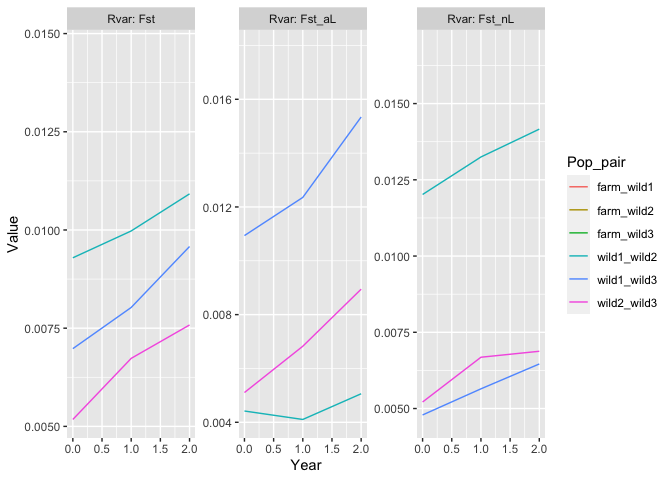
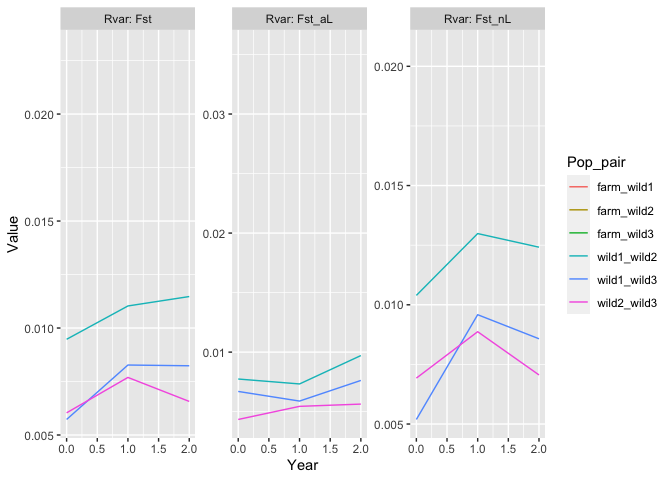
testing out parameter loading

diff --git a/README.md b/README.md
@@ -47,14 +47,15 @@ See the example below for the workflow needed to use this package
 
 ## Example
 
-This example shows you the sequence of steps needed to run
-`shellfishrisks`.
+This example shows you the sequence of steps needed to install requirede
+Python packages and run `shellfishrisks`.
 
 ``` r
-set.seed(456)
+set.seed(42)
 # For various reasons, if think you need to install Python libraries, you need to run this BEFORE calling library(shellfishrisks)
 
 shellfishrisks::install_pypkgs() # installs any missing and required Python packages
+#> shellfishrisks is using Conda environment 'r-reticulate'
 
 library(shellfishrisks) # now load shellfishrisks after installing required python packages
 # If you get an error about a missing Python package, restart R, and then run shellfishrisks::install_pypgks() BEFORE running library(shellfishrisks)
@@ -113,41 +114,41 @@ str(results)
 #>   ..$ Allele         : int [1:500] 0 1 0 1 0 1 0 1 0 1 ...
 #>   ..$ Adaptive       : chr [1:500] "True" "True" "True" "True" ...
 #>   ..$ Adv            : chr [1:500] "True" "False" "True" "False" ...
-#>   ..$ AlleleFrequency: num [1:500] 0.838 0.162 0.874 0.126 0.897 ...
-#>  $ bstock_report   :'data.frame':    10 obs. of  4 variables:
-#>   ..$ coreid            : int [1:10] 1 1 1 1 1 1 1 1 1 1
-#>   ..$ Rep               : int [1:10] 0 0 0 0 0 0 0 0 0 0
-#>   ..$ Year              : int [1:10] 1 1 1 1 1 1 1 1 1 1
-#>   ..$ IndID_survivedAgeX: num [1:10] 94 40 12 90 57 4 5 96 75 37
+#>   ..$ AlleleFrequency: num [1:500] 0.9048 0.0952 0.8563 0.1437 0.9545 ...
+#>  $ bstock_report   :'data.frame':    8 obs. of  4 variables:
+#>   ..$ coreid            : int [1:8] 1 1 1 1 1 1 1 1
+#>   ..$ Rep               : int [1:8] 0 0 0 0 0 0 0 0
+#>   ..$ Year              : int [1:8] 1 1 1 1 1 1 1 1
+#>   ..$ IndID_survivedAgeX: num [1:8] 68 96 42 89 65 2 48 64
 #>  $ harvest         :'data.frame':    3 obs. of  5 variables:
 #>   ..$ coreid       : int [1:3] 1 1 1
 #>   ..$ Srep         : int [1:3] 1 1 1
 #>   ..$ Rep          : int [1:3] 0 0 0
 #>   ..$ Year         : int [1:3] 0 1 2
 #>   ..$ IndsHarvested: int [1:3] 0 0 0
-#>  $ life_hist_report:'data.frame':    122696 obs. of  12 variables:
-#>   ..$ coreid       : int [1:122696] 1 1 1 1 1 1 1 1 1 1 ...
-#>   ..$ Rep          : int [1:122696] 0 0 0 0 0 0 0 0 0 0 ...
-#>   ..$ Year         : int [1:122696] 0 0 0 0 0 0 0 0 0 0 ...
-#>   ..$ Month        : chr [1:122696] "Jan" "Jan" "Jan" "Jan" ...
-#>   ..$ Subpop       : chr [1:122696] "wild1" "wild1" "wild1" "wild1" ...
-#>   ..$ IndID        : num [1:122696] 1 2 3 4 5 6 7 8 9 10 ...
-#>   ..$ Sex          : int [1:122696] 2 2 1 1 1 1 1 2 2 2 ...
-#>   ..$ CohortYear   : num [1:122696] 0 0 0 0 0 0 0 0 0 0 ...
-#>   ..$ Age          : num [1:122696] 3 4.33 1 5.67 6.58 ...
-#>   ..$ Mother_id    : num [1:122696] 0 0 0 0 0 0 0 0 0 0 ...
-#>   ..$ Father_id    : num [1:122696] 0 0 0 0 0 0 0 0 0 0 ...
-#>   ..$ meanParentAge: num [1:122696] 0 0 0 0 0 0 0 0 0 0 ...
+#>  $ life_hist_report:'data.frame':    124701 obs. of  12 variables:
+#>   ..$ coreid       : int [1:124701] 1 1 1 1 1 1 1 1 1 1 ...
+#>   ..$ Rep          : int [1:124701] 0 0 0 0 0 0 0 0 0 0 ...
+#>   ..$ Year         : int [1:124701] 0 0 0 0 0 0 0 0 0 0 ...
+#>   ..$ Month        : chr [1:124701] "Jan" "Jan" "Jan" "Jan" ...
+#>   ..$ Subpop       : chr [1:124701] "wild1" "wild1" "wild1" "wild1" ...
+#>   ..$ IndID        : num [1:124701] 1 2 3 4 5 6 7 8 9 10 ...
+#>   ..$ Sex          : int [1:124701] 1 2 2 2 1 2 2 2 1 2 ...
+#>   ..$ CohortYear   : num [1:124701] 0 0 0 0 0 0 0 0 0 0 ...
+#>   ..$ Age          : num [1:124701] 7.25 4.33 1.17 4.42 4.58 ...
+#>   ..$ Mother_id    : num [1:124701] 0 0 0 0 0 0 0 0 0 0 ...
+#>   ..$ Father_id    : num [1:124701] 0 0 0 0 0 0 0 0 0 0 ...
+#>   ..$ meanParentAge: num [1:124701] 0 0 0 0 0 0 0 0 0 0 ...
 #>  $ log             :'data.frame':    3 obs. of  9 variables:
 #>   ..$ coreid    : int [1:3] 1 1 1
 #>   ..$ rep       : int [1:3] 0 0 0
 #>   ..$ farm_phase: chr [1:3] "pre-farm" "during-farm" "post-farm"
 #>   ..$ year      : int [1:3] 0 1 2
-#>   ..$ wild1_size: int [1:3] 714 1181 1578
-#>   ..$ wild2_size: int [1:3] 734 1213 1612
-#>   ..$ wild3_size: int [1:3] 725 1185 1567
-#>   ..$ farm_size : int [1:3] NA 500 NA
-#>   ..$ time_stamp: chr [1:3] "2021-07-31_18:14:49" "2021-07-31_18:17:27" "2021-07-31_18:20:42"
+#>   ..$ wild1_size: int [1:3] 725 1212 1614
+#>   ..$ wild2_size: int [1:3] 701 1223 1648
+#>   ..$ wild3_size: int [1:3] 726 1224 1619
+#>   ..$ farm_size : int [1:3] NA 497 NA
+#>   ..$ time_stamp: chr [1:3] "2021-08-06_09:37:41" "2021-08-06_09:40:14" "2021-08-06_09:43:31"
 #>  $ pop_pair_rvars  :'data.frame':    36 obs. of  7 variables:
 #>   ..$ coreid  : int [1:36] 1 1 1 1 1 1 1 1 1 1 ...
 #>   ..$ Srep    : int [1:36] 1 1 1 1 1 1 1 1 1 1 ...
@@ -155,7 +156,7 @@ str(results)
 #>   ..$ Year    : int [1:36] 0 0 0 0 0 0 0 0 0 1 ...
 #>   ..$ Pop_pair: chr [1:36] "wild1_wild2" "wild1_wild2" "wild1_wild2" "wild2_wild3" ...
 #>   ..$ Rvar    : chr [1:36] "Fst" "Fst_aL" "Fst_nL" "Fst" ...
-#>   ..$ Value   : num [1:36] 0.00929 0.00442 0.01202 0.00518 0.00511 ...
+#>   ..$ Value   : num [1:36] 0.00947 0.00774 0.01039 0.00604 0.00434 ...
 #>  $ pop_rvars       :'data.frame':    40 obs. of  7 variables:
 #>   ..$ coreid: int [1:40] 1 1 1 1 1 1 1 1 1 1 ...
 #>   ..$ Srep  : int [1:40] 1 1 1 1 1 1 1 1 1 1 ...
@@ -163,14 +164,14 @@ str(results)
 #>   ..$ Year  : int [1:40] 0 0 0 0 0 0 0 0 0 0 ...
 #>   ..$ Subpop: chr [1:40] "wild1" "wild1" "wild1" "wild1" ...
 #>   ..$ Rvar  : chr [1:40] "mfit" "popsize" "het" "ar" ...
-#>   ..$ Value : num [1:40] 0.996 842 1 1820 0.997 ...
+#>   ..$ Value : num [1:40] 0.996 835 1 1740 0.997 ...
 #>  $ temp_rvars      :'data.frame':    3 obs. of  6 variables:
 #>   ..$ coreid: int [1:3] 1 1 1
 #>   ..$ Srep  : int [1:3] 1 1 1
 #>   ..$ Rep   : int [1:3] 0 0 0
 #>   ..$ Subpop: chr [1:3] "wild1" "wild2" "wild3"
 #>   ..$ Rvar  : chr [1:3] "Fst" "Fst" "Fst"
-#>   ..$ Value : num [1:3] -2.63e-04 -4.99e-05 9.28e-04
+#>   ..$ Value : num [1:3] 0.000528 0.000238 0.00018
 
 results$AFs %>% 
   ggplot(aes(Year, AlleleFrequency, color = Locus_index, group = Locus_index)) + 
